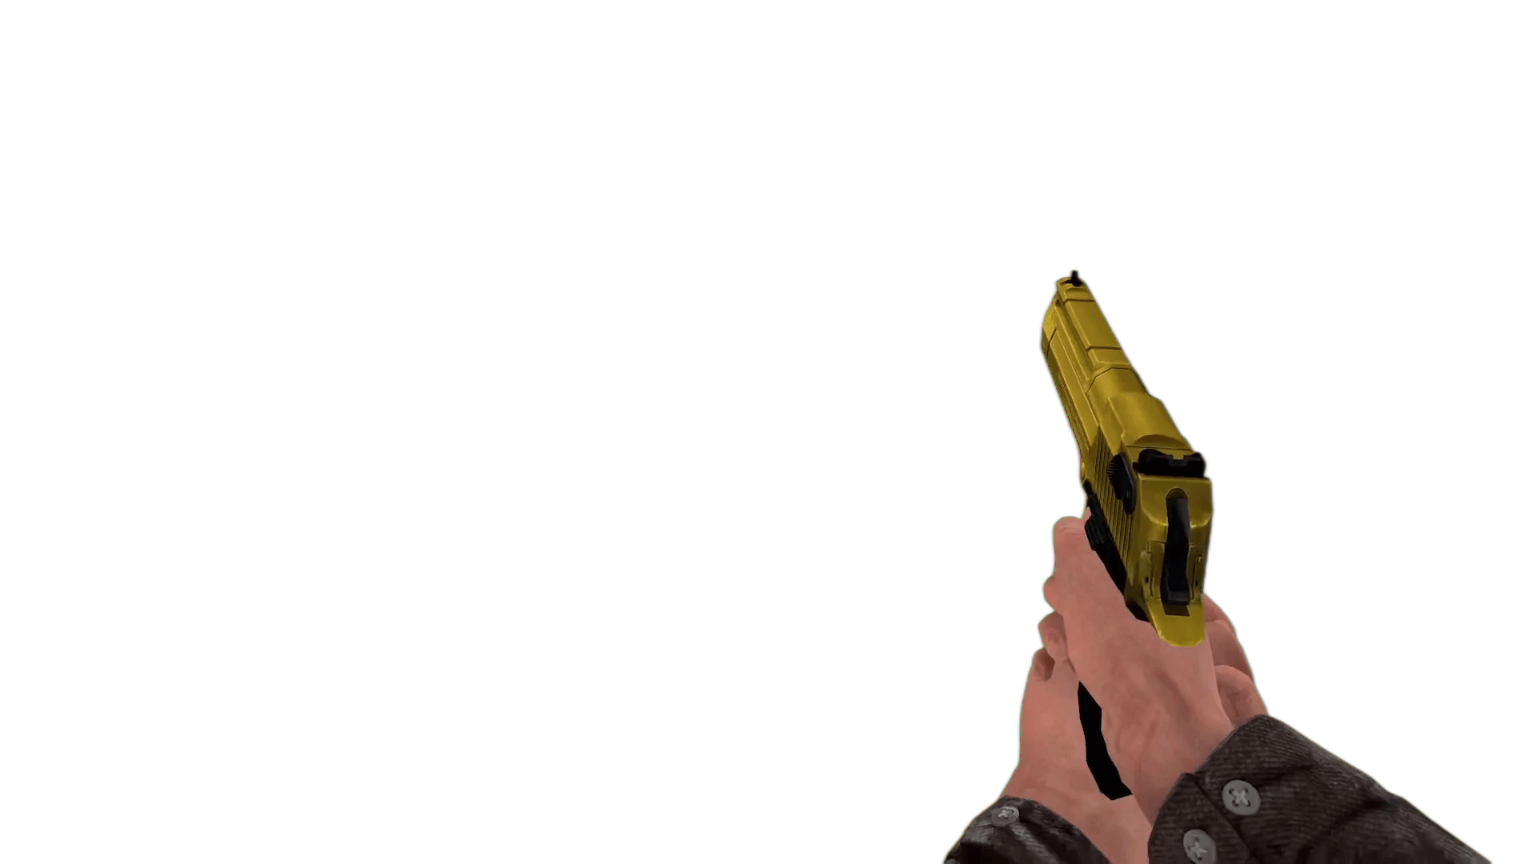
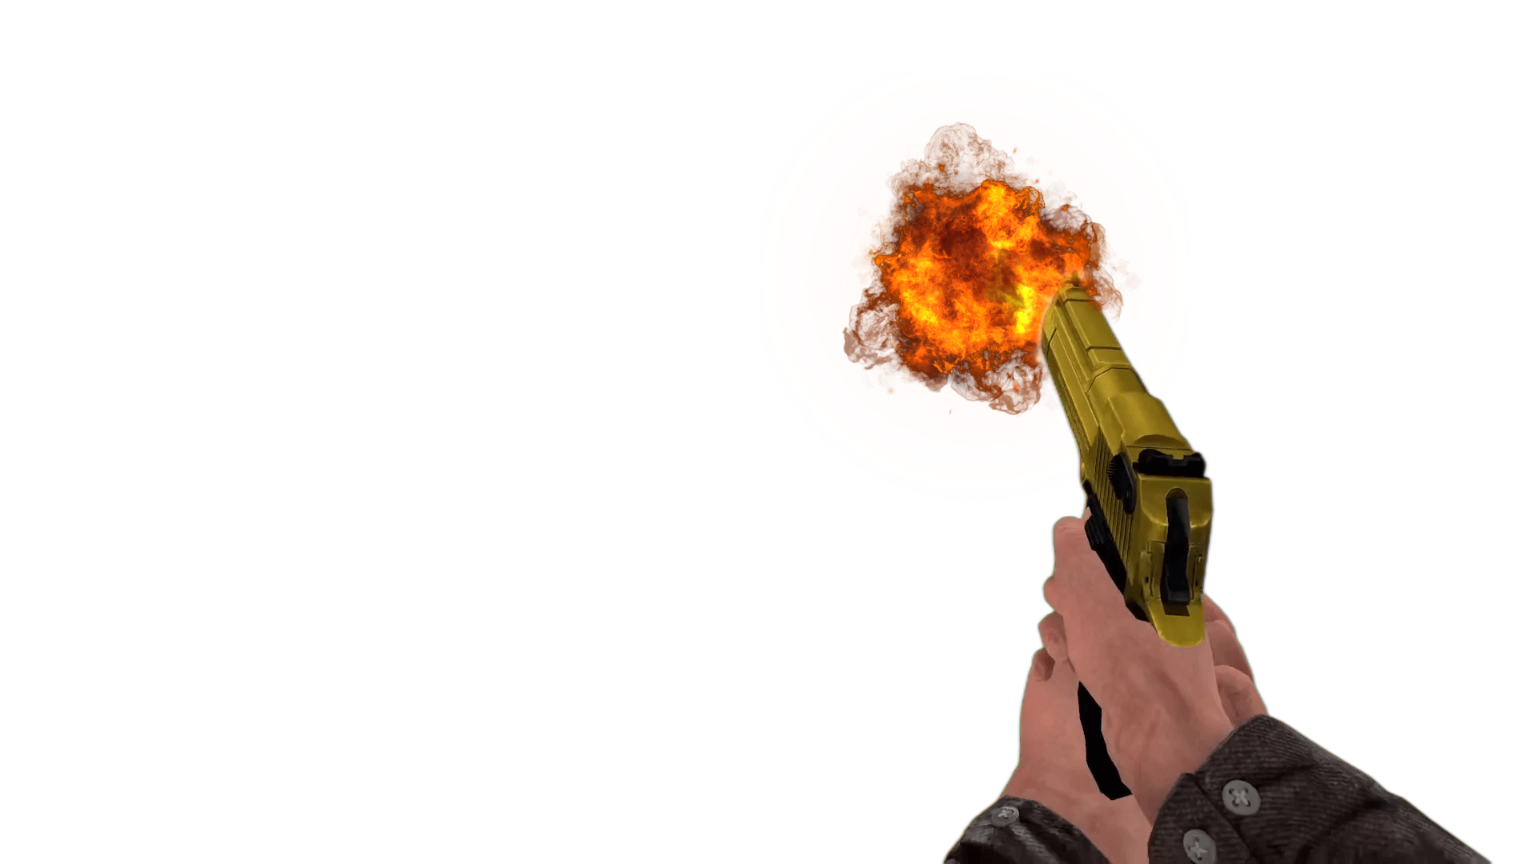
shooting animation with fire effect added --done

Changed region(s): [[0.5312, 0.125, 0.75, 0.5]]

diff --git a/Bonus/animation/pov.c b/Bonus/animation/pov.c
@@ -6,7 +6,7 @@
 /*   By: moichou <moichou@student.42.fr>            +#+  +:+       +#+        */
 /*                                                +#+#+#+#+#+   +#+           */
 /*   Created: 2024/08/07 14:38:38 by moichou           #+#    #+#             */
-/*   Updated: 2024/08/20 19:37:53 by moichou          ###   ########.fr       */
+/*   Updated: 2024/08/20 20:08:09 by moichou          ###   ########.fr       */
 /*                                                                            */
 /* ************************************************************************** */
 
